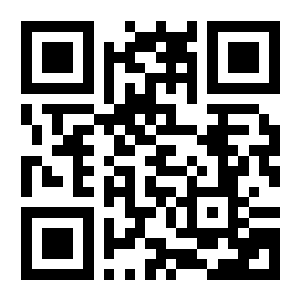
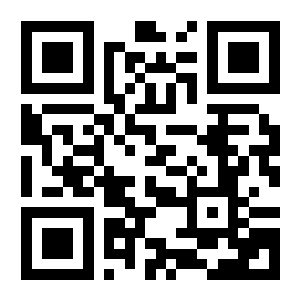
update bot link

diff --git a/public/buy/index.html b/public/buy/index.html
@@ -118,7 +118,7 @@
         </h1>
         
         <div class="qr-wrapper animate__animated animate__zoomIn animate__delay-1s">
-            <a href="https://wa.link/qovvnm" target="_blank">
+            <a href="https://wa.link/2b9dlx" target="_blank">
                 <img src="https://i.ibb.co/QvSdgGYq/bot-link.png" 
                     alt="TandoorBaaz Order QR" 
                     class="qr-code">
